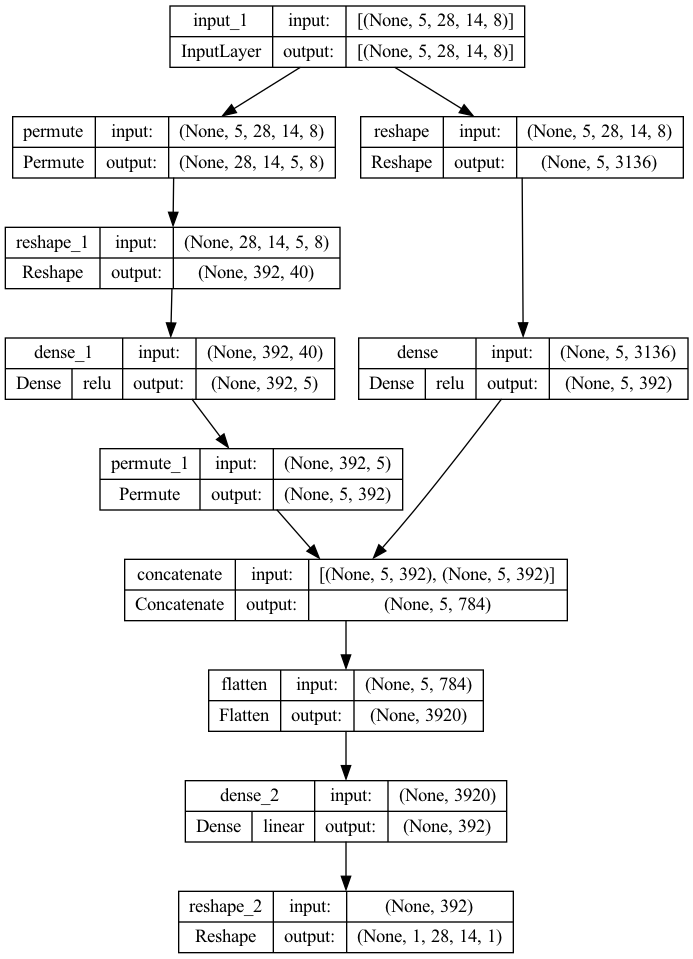
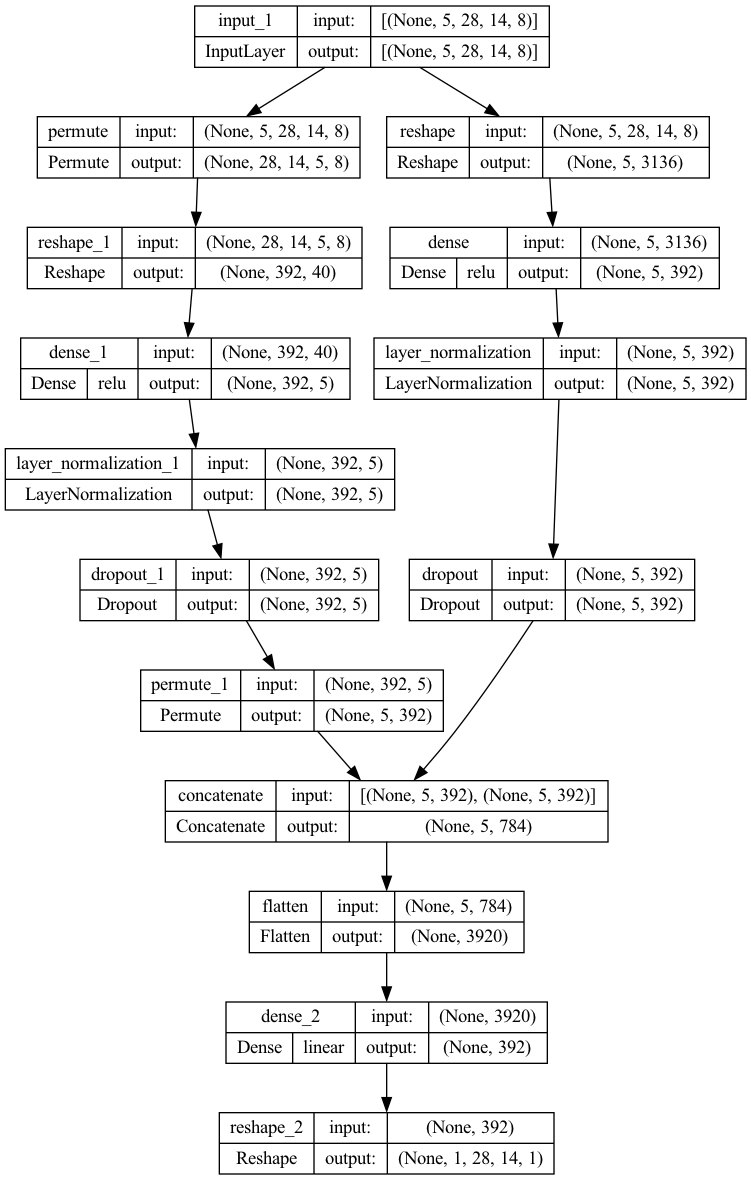
dense

Changed region(s): [[0.0, 0.0, 1.0, 0.9979], [0.2424, 0.8165, 0.2727, 0.8467]]

diff --git a/ml/dense.py b/ml/dense.py
@@ -44,6 +44,9 @@ def MakeDense(config_path,
                                              num_heads=4,
                                              ff_dim=spat_flat.shape[-1],
                                              attn_axes=2)(spat_flat)
+            if (num_trans == 0):
+                spat_flat = LayerNormalization()(spat_flat)
+                spat_flat = Dropout(rate=0.1)(spat_flat)
         else:
             spat_flat = LayerNormalization()(spat_flat)
             spat_flat = Dropout(rate=0.1)(spat_flat)
@@ -61,6 +64,9 @@ def MakeDense(config_path,
                                              num_heads=4,
                                              ff_dim=time_flat.shape[-1],
                                              attn_axes=2)(time_flat)
+            if (num_trans == 0):
+                time_flat = LayerNormalization()(time_flat)
+                time_flat = Dropout(rate=0.1)(time_flat)
         else:
             time_flat = LayerNormalization()(time_flat)
             time_flat = Dropout(rate=0.1)(time_flat)
@@ -78,25 +84,25 @@ def MakeDense(config_path,
     #----------------------------------------------------------------
     model = keras.Model(input_layer, output_layer)
 
-    # keras.utils.plot_model(model, show_shapes=True, show_layer_activations=True, to_file=os.path.join('SavedModels/Figs', 'DiamondDense.png'))
-    # print(model.summary())
+    keras.utils.plot_model(model, show_shapes=True, show_layer_activations=True, to_file=os.path.join('SavedModels/Figs', 'DiamondDense.png'))
+    print(model.summary())
     return model
 
 #====================================================================
-# x = np.random.random((200, 5, 28, 14, 8))
-# y = np.random.random((200, 1, 28, 14, 1)) * 1.2
+x = np.random.random((200, 5, 28, 14, 8))
+y = np.random.random((200, 1, 28, 14, 1)) * 1.2
 
-# model = MakeDense('config.yml', x.shape, y.shape)
+model = MakeDense('config.yml', x.shape, y.shape)
 
-# model.compile(loss=keras.losses.MeanSquaredError(reduction="sum_over_batch_size", 
-#                                                  name="MSE"),
-#               optimizer=keras.optimizers.Adam(learning_rate=1e-3))
+model.compile(loss=keras.losses.MeanSquaredError(reduction="sum_over_batch_size", 
+                                                 name="MSE"),
+              optimizer=keras.optimizers.Adam(learning_rate=1e-3))
 
-# history = model.fit(x=x,
-#                     y=y,
-#                     batch_size=10,
-#                     epochs=10,
-#                     verbose=1)
+history = model.fit(x=x,
+                    y=y,
+                    batch_size=10,
+                    epochs=10,
+                    verbose=1)
 
 
 
